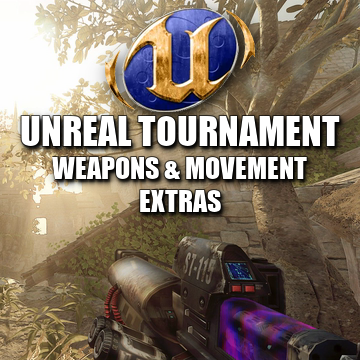
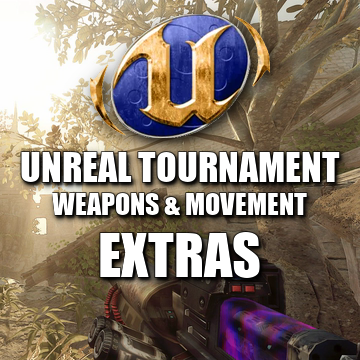
Workshop preview: the extras mod's has the emblem and the name as the main mod's, and EXTRAS under them in bigger letters, over the gun (build 1751)

diff --git a/unreal_tournament/tools/asset_conversion/make_item_preview.py b/unreal_tournament/tools/asset_conversion/make_item_preview.py
@@ -14,20 +14,24 @@ FONT = 'C\\:/Windows/Fonts/impact.ttf'
 SIZE = 360  # pixels, as the framework's default preview
 CROP_X = 840  # the left edge of the square taken from the screenshot, in its pixels: the right of it, with the weapon
 
-# Each mod's preview: the emblem's width and top, and the lines of text (text, size, top), all in pixels. The text stays above the
-# gun, which starts about 235 pixels down, so the extras mod's third line moves everything up and makes the emblem smaller.
+# Each mod's preview: the emblem's width and top, and the lines of text (text, size, top), all in pixels. The name stays above the gun,
+# which starts about 235 pixels down. The extras mod's is the same, with EXTRAS in bigger letters over the gun.
+LOGO_WIDTH = 180
+LOGO_Y = 14
+NAME = [('UNREAL TOURNAMENT', 38, 152), ('WEAPONS & MOVEMENT', 28, 193)]
+
 PREVIEWS = [
     {
         'path': os.path.join(REPO, 'item_preview.png'),
-        'logo_width': 180,
-        'logo_y': 14,
-        'lines': [('UNREAL TOURNAMENT', 38, 152), ('WEAPONS & MOVEMENT', 28, 193)],
+        'logo_width': LOGO_WIDTH,
+        'logo_y': LOGO_Y,
+        'lines': NAME,
     },
     {
         'path': os.path.join(REPO, '..', 'unreal_tournament_extras', 'item_preview.png'),
-        'logo_width': 150,
-        'logo_y': 8,
-        'lines': [('UNREAL TOURNAMENT', 38, 116), ('WEAPONS & MOVEMENT', 28, 157), ('EXTRAS', 28, 190)],
+        'logo_width': LOGO_WIDTH,
+        'logo_y': LOGO_Y,
+        'lines': NAME + [('EXTRAS', 56, 232)],
     },
 ]
 
